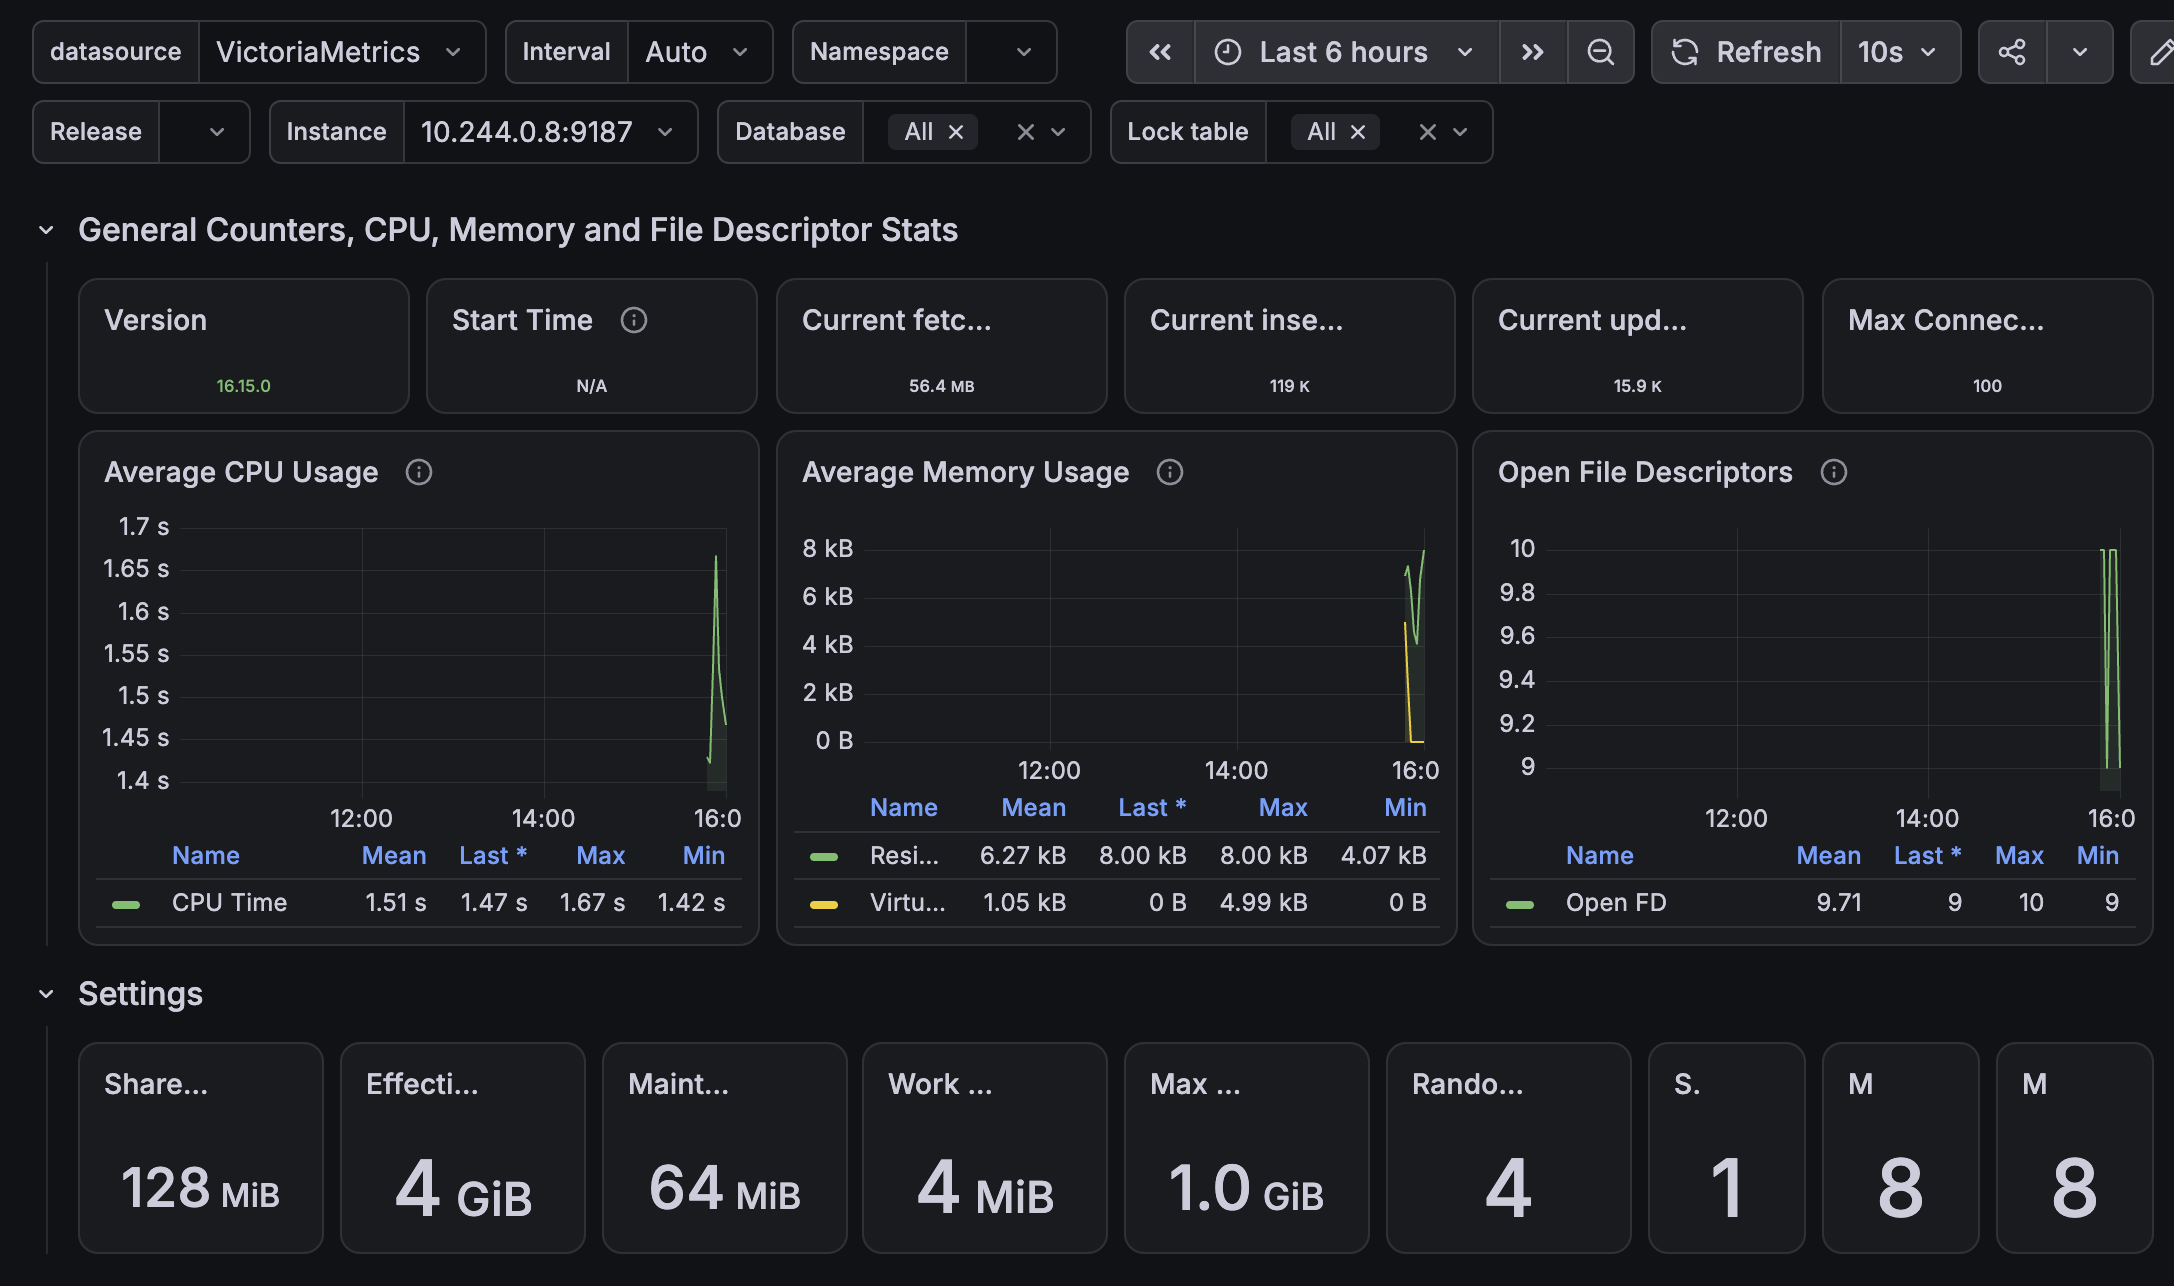
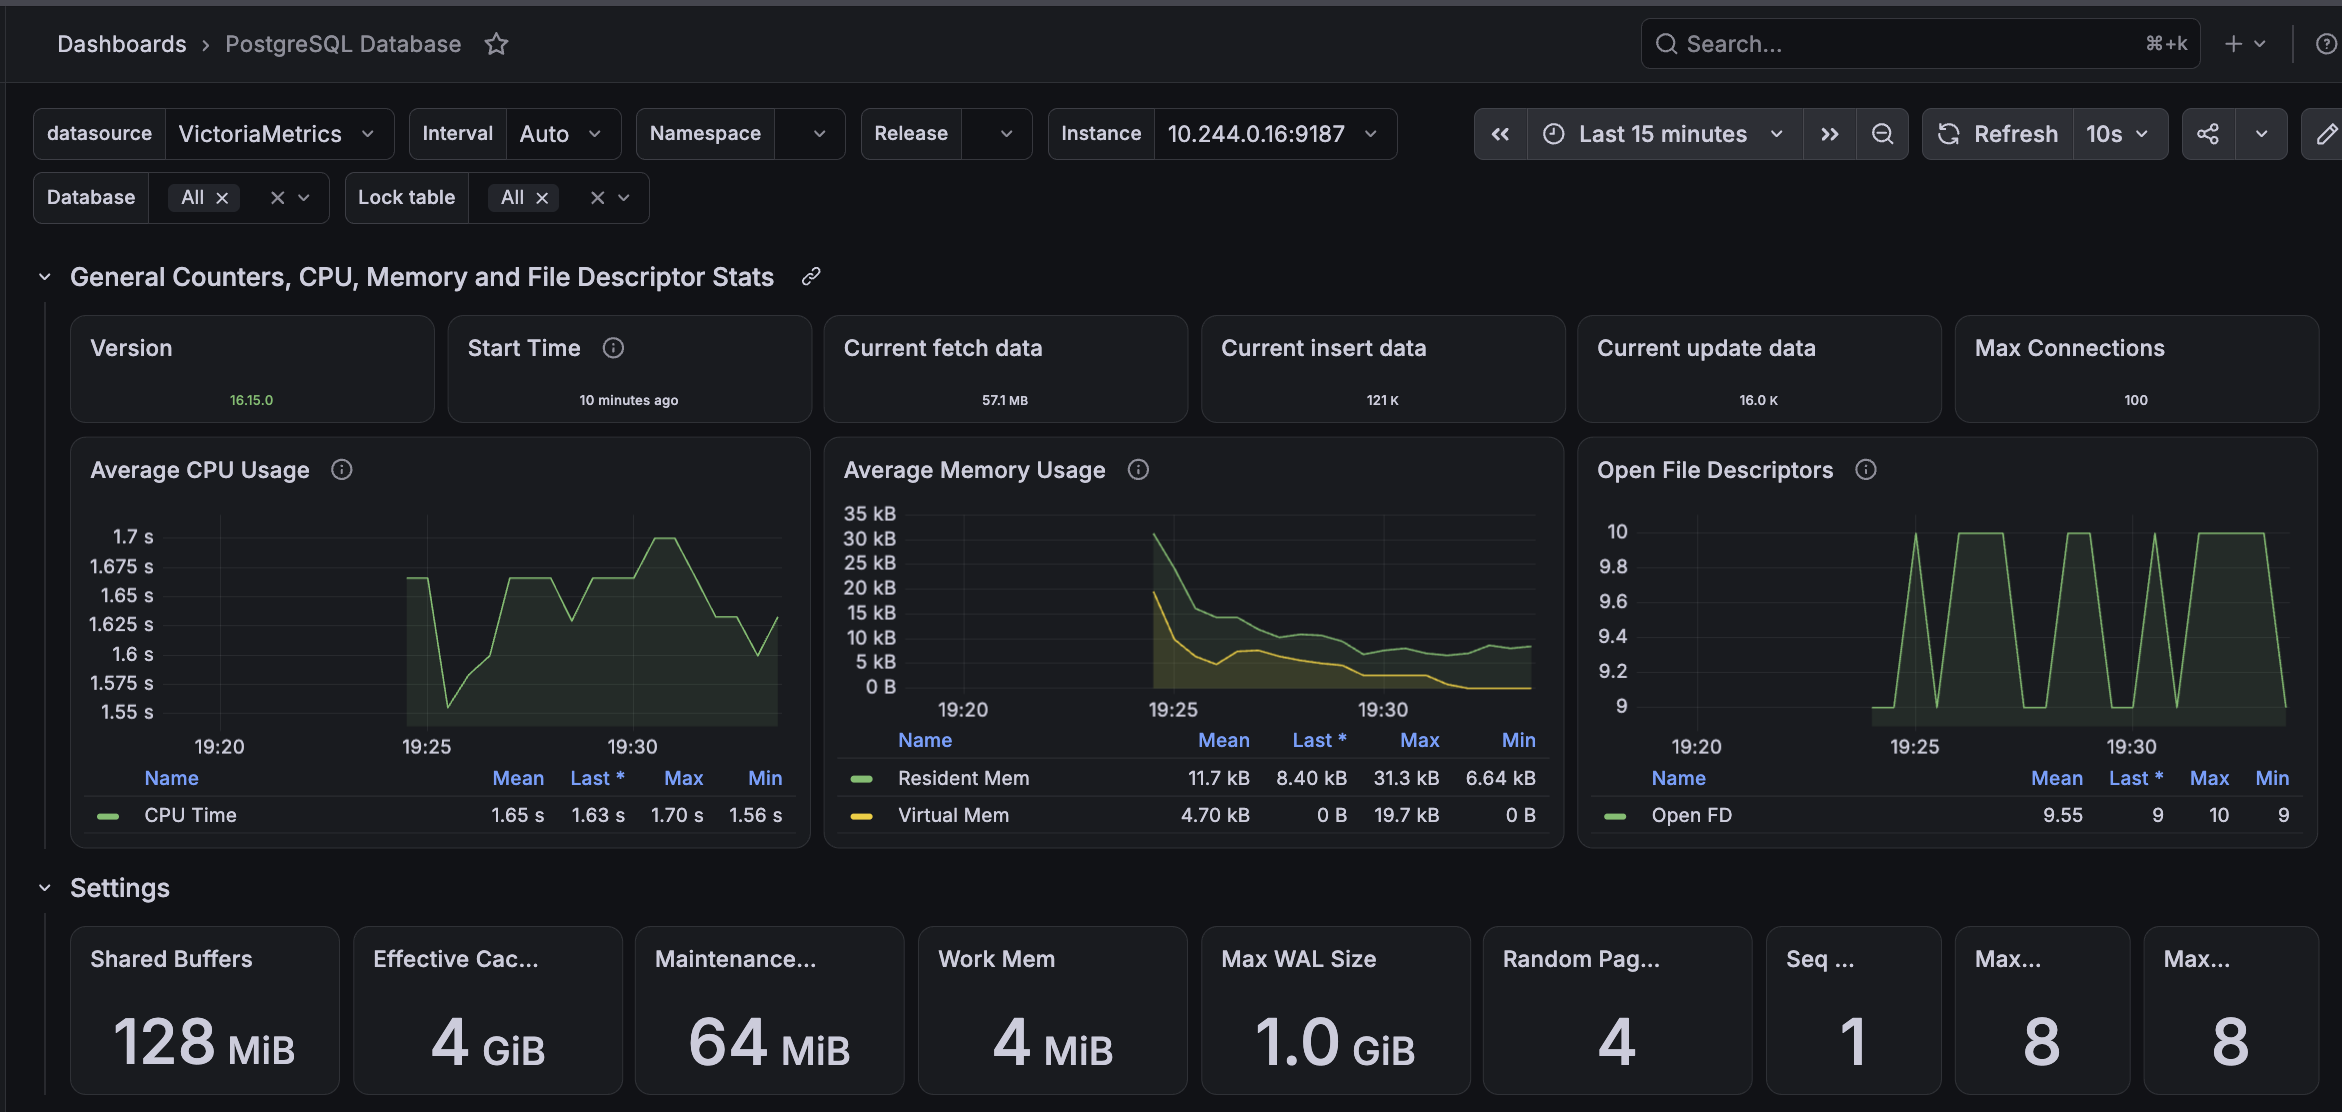
Отчёт Grafana: новые скриншоты PostgreSQL со Start Time
Claude-Session: https://claude.ai/code/session_01VVfC7jT5y4R2idBXbZXcmS

diff --git a/grafana/Отчёт.md b/grafana/Отчёт.md
@@ -97,17 +97,20 @@ SLA считается по проберу как доля хороших мин
 - **Cache Hit Rate** около 99,99%: данные читаются из памяти, а не с диска.
 - **Конфликты, deadlock'и и временные файлы** — нули, проблем с блокировками и нехваткой `work_mem` нет.
 
-Графики начинаются около 15:46, после перезапуска minikube.
+Скриншоты сделаны за последние 15 минут, вскоре после перезапуска пода `db-0`.
 
-Панель Start Time использует метрику `pg_postmaster_start_time_seconds`. В postgres-exporter её отдаёт коллектор `postmaster`, который по умолчанию выключен, поэтому на скриншоте панель показывает N/A. Коллектор включён флагом `--collector.postmaster` в [`k8s/10-db.yaml`](../k8s/10-db.yaml).
+Панель Start Time использует метрику `pg_postmaster_start_time_seconds`. В postgres-exporter её отдаёт коллектор `postmaster`, который по умолчанию выключен, поэтому он включён флагом `--collector.postmaster` в [`k8s/10-db.yaml`](../k8s/10-db.yaml).
+
+Особенности дашборда 9628:
+
+- **Фильтр Instance** — это адрес пода экспортера (`IP:9187`). После перезапуска `db-0` IP меняется, и в фильтре нужно выбрать новый адрес.
+- **Шаг запроса.** Часть показателей (Start Time, Current fetch / insert / update data) запрашивается с крупным шагом: `maxDataPoints: 100` и `intervalFactor: 2`. За 6 часов это одна точка примерно раз в 7 минут. Сразу после перезапуска пода точек на такой сетке ещё нет, и эти показатели показывают N/A. На коротком периоде, например 15 минут, значения видны сразу.
 
 ![PostgreSQL: общие показатели и настройки](screenshots/postgres-general.png)
 
 ![PostgreSQL: сессии, транзакции и операции со строками](screenshots/postgres-stats.png)
 
-![PostgreSQL: кеш, буферы и конфликты](screenshots/postgres-stats-2.png)
-
-![PostgreSQL: временные файлы и чекпоинты](screenshots/postgres-checkpoints.png)
+![PostgreSQL: кеш, буферы, конфликты, временные файлы и чекпоинты](screenshots/postgres-stats-2.png)
 
 ## Файлы
 
